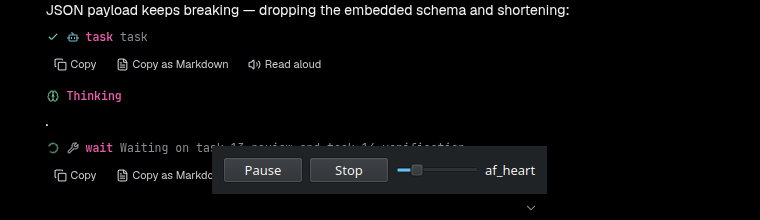
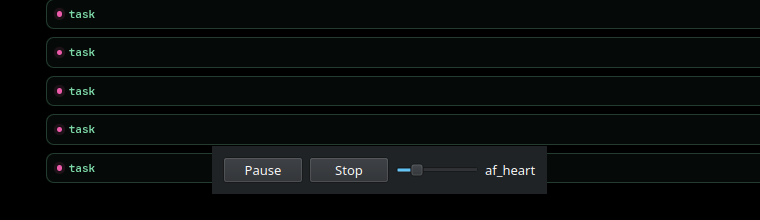
docs: correct the phase 2 report's tail count and latency summary

diff --git a/docs/phase2-report.md b/docs/phase2-report.md
@@ -2,8 +2,21 @@
 
 The assembled app, not a CLI: the tray process from `uv run utter` on this machine (KDE Plasma 6
 on Wayland, PipeWire, dual 3840×1080 desktop). One live instance, PID **76735**, started at
-06:48:36 and driven for the whole session. Everything below was taken from that instance; every
-number names the command or file it came from.
+06:48:36 and driven for the whole session. Every number below names the command or file it came
+from.
+
+A second instance (PID **78896**, started 06:58:33) was launched afterwards for the literal
+`busctl`/`pactl`/`pw-dump` excerpts and the committed screenshot, because those had to be one
+command's actual output. Where a block comes from that run it says so; the measurements all come
+from the first.
+
+*Revision note.* This revision corrects the §1.3 tail count (five of ten speaking samples are
+above 320 MiB, not two) and the §1.4 latency summary (the four paragraph utterances are 1.214,
+0.478, 0.500 and 0.484 s, with the first-utterance 1.214 s stated separately, and the two
+one-unit utterances 0.611 and 0.815 s added), and replaces two shell excerpts that were not the
+literal output of the commands they were attributed to (the `busctl` ownership rows and the
+`pactl` block). No measurement was recomputed or adjusted to fit a sentence; the tables are
+unchanged.
 
 Phase 1 measured the one-shot CLI process. **Nothing here is combined with Phase 1's numbers**:
 the RSS series below are the tray's own, sampled from `/proc/76735/status`.
@@ -44,15 +57,22 @@ The item *is* registered. `busctl --user list` shows the pid's connections, and 
 one of them:
 
 ```text
-$ busctl --user list | grep 76735
-:1.824  76735  utter  mcgrain  …        # (+ :1.829 :1.830 :1.831 :1.832)
+$ busctl --user list --no-pager | awk 'NR==1 || $0 ~ /76735|StatusNotifier/'
+NAME                                     PID   PROCESS         USER    CONNECTION  UNIT              SESSION  DESCRIPTION
+:1.824                                   76735 utter           mcgrain :1.824      user@1000.service -        -
+:1.829                                   76735 utter           mcgrain :1.829      user@1000.service -        -
+:1.830                                   76735 utter           mcgrain :1.830      user@1000.service -        -
+:1.831                                   76735 utter           mcgrain :1.831      user@1000.service -        -
+:1.832                                   76735 utter           mcgrain :1.832      user@1000.service -        -
+org.kde.StatusNotifierHost-2563          2563  plasmashell     mcgrain :1.42       user@1000.service -        -
+org.kde.StatusNotifierWatcher            2528  kded6           mcgrain :1.36       user@1000.service -        -
 $ gdbus call --session --dest org.kde.StatusNotifierWatcher --object-path /StatusNotifierWatcher \
     --method org.freedesktop.DBus.Properties.Get org.kde.StatusNotifierWatcher RegisteredStatusNotifierItems
 (<[':1.84/StatusNotifierItem', ':1.222/org/ayatana/NotificationItem/parakeet_cage', ':1.254/StatusNotifierItem', ':1.832/StatusNotifierItem']>,)
 ```
 
-`:1.832` is owned by PID 76735, and introspecting `:1.832 /StatusNotifierItem` identifies it as
-utter's:
+The token `:1.832` is in **both** blocks: the registered item is `:1.832/StatusNotifierItem`, and
+`:1.832` is a connection owned by PID 76735. Introspecting that object identifies it as utter's:
 
 ```text
 .Id        "utter"
@@ -113,14 +133,41 @@ which is what invalidates the in-flight utterance.
 
 ### Screenshot while speaking
 
-Taken with `spectacle` mid-utterance (state `PLAYING`, generation 6):
+The overlay shows while the state is `PLAYING`/`PAUSED`, so a capture is only meaningful paired
+with the status and the `utterance` line for the same instant. This is the session's generation
+map, from the recorded `utter status` outputs and the engine log — it is what pins each capture to
+what was actually playing:
 
-- Full desktop capture: **`/tmp/utter-phase2/speaking2.png`** (3840×1080; the first, equivalent
-  capture is `/tmp/utter-phase2/utter-speaking.png`).
-- Crop of the floating controller, committed with this report: **`docs/phase2-overlay.png`**.
+| generation | event | engine-log line |
+|---|---|---|
+| 0 | idle before anything | — |
+| 1 | `speak`, sample paragraph | 06:49:04 `units=9 audio=25.56` |
+| 2 | `stop` | — |
+| 3 | `speak`, sample paragraph (RSS run A) | 06:49:47 `units=9 audio=25.56` |
+| 4 | `stop` | — |
+| 5 | `speak`, sample paragraph (RSS run B) | 06:50:12 `units=9 audio=25.56` |
+| 6 | `speak`, sample paragraph — this capture; supersedes gen 5, no `stop` in between | 06:50:44 `units=9 audio=25.56` |
+| 7 | `stop` | — |
+| 8 | `speak`, "Audio routing check for the phase two report." | 06:50:57 `units=1 audio=2.62` |
+| 9 | `stop` | — |
+| 10 | `speak`, "…second pass." | 06:51:06 `units=1 audio=3.37` |
+| 11 | `stop` | — |
 
-I looked at both files. `docs/phase2-overlay.png` shows the overlay while the paragraph plays:
-the **Pause** and **Stop** buttons, the speed slider and the voice label **af_heart**. That is a
+The public sample paragraph is therefore the `units=9` lines — **generations 1, 3, 5 and 6** — not
+generations 8 and 10, which are the two one-unit routing-check utterances.
+
+- Capture at generation 6 (state `PLAYING`, paragraph): **`/tmp/utter-phase2/speaking2.png`**
+  (3840×1080; the earlier equivalent capture, also while the paragraph played, is
+  `/tmp/utter-phase2/utter-speaking.png`).
+- Capture at generation 3 of the re-verification run (state `PLAYING`, paragraph — `utter status`
+  read immediately before and after the capture returned generation 3, and the only `utterance`
+  line in that window is 06:59:17 `units=9 audio=25.56`):
+  **`/tmp/utter-phase2/reverify-speaking.png`**.
+- Crop of the floating controller, committed with this report: **`docs/phase2-overlay.png`**
+  (from the re-verification capture).
+
+I looked at the captures and at the crop. Each shows the overlay while speech plays: the
+**Pause** and **Stop** buttons, the speed slider and the voice label **af_heart**. That is a
 visual check I performed; I did not click any of those controls (see below).
 
 ### Voices answered by the live instance
@@ -135,22 +182,70 @@ start` log lines after 06:48 (the 19 in the file are all Phase 1).
 
 ### Audio really reached an output device
 
-`pactl` shows a live playback stream with the player's own frame rate while utter spoke — this is
-the tray's stream (the only Python ALSA playback node on the machine, at 24 kHz):
+Captured on the re-verification instance (PID 78896) while the sample paragraph played. `pactl`'s
+node block is verbatim; note that this node's properties carry **no** `application.process.id` —
+PipeWire's ALSA bridge does not set it — so the block alone cannot name the process and the
+`pw-dump` client row below is what ties it, by the node's `client.id`:
 
 ```text
-$ pactl list sink-inputs | grep -A12 'PipeWire ALSA \[python3.12\]'
-Sink Input #1974
-  Corked: no
-  application.name = "PipeWire ALSA [python3.12]"
-  node.name = "alsa_playback.python3.12"
-  stream.is-live = "true"
-  node.rate = "1/24000"
-  node.latency = "208/24000"
+$ pactl list sink-inputs        # verbatim, the app's node
+Sink Input #1990
+	Driver: PipeWire
+	Owner Module: n/a
+	Client: 1989
+	Sink: 56
+	Sample Specification: float32le 1ch 24000Hz
+	Channel Map: mono
+	Format: pcm, format.sample_format = "\"float32le\""  format.rate = "24000"  format.channels = "1"  format.channel_map = "\"mono\""
+	Corked: no
+	Mute: no
+	Volume: mono: 65536 / 100% / 0.00 dB
+	        balance 0.00
+	Buffer Latency: 0 usec
+	Sink Latency: 0 usec
+	Resample method: PipeWire
+	Properties:
+		application.name = "PipeWire ALSA [python3.12]"
+		node.name = "alsa_playback.python3.12"
+		device.description = "ALSA Playback [python3.12]"
+		media.name = "ALSA Playback"
+		media.type = "Audio"
+		media.category = "Playback"
+		node.latency = "208/24000"
+		node.rate = "1/24000"
+		stream.is-live = "true"
+		node.want-driver = "true"
+		node.autoconnect = "true"
+		media.class = "Stream/Output/Audio"
+		port.group = "stream.0"
+		adapt.follower.spa-node = ""
+		object.register = "false"
+		factory.id = "9"
+		clock.quantum-limit = "8192"
+		node.loop.name = "data-loop.0"
+		library.name = "audioconvert/libspa-audioconvert"
+		client.id = "144"
+		object.id = "115"
+		object.serial = "1990"
+		node.driver-id = "56"
+		module-stream-restore.id = "sink-input-by-application-name:PipeWire ALSA [python3.12]"
 ```
 
-**I did not listen to it.** The stream's existence, liveness and 24 kHz rate are what I measured;
-"the speech sounds correct" is not a claim in this report.
+`pw-dump`, filtered down to that node (`node.name == "alsa_playback.python3.12"`) and the client
+`client.id 144` that owns it, names the process:
+
+```text
+$ pw-dump | python3 -c "…node alsa_playback.python3.12 and its owning client…"
+node id 115 client.id 144 serial 1990
+client props: {'application.name': 'PipeWire ALSA [python3.12]', 'application.process.binary': 'python3.12', 'application.process.host': 'fedora', 'application.process.id': 78896, 'application.process.session-id': 2, 'application.process.user': 'mcgrain', 'pipewire.sec.pid': 78896}
+```
+
+`application.process.id` = **78896**, the PID of this run's `uv run utter` child, and
+`application.process.binary` is `python3.12` — the node the report quotes is the app's own stream,
+at the player's mono 24 kHz rate.
+
+**I did not listen to it.** The stream's existence, liveness, rate and owning process are what I
+measured; "the speech sounds correct" is not a claim in this report.
 
 ## Step 3 — CLI delegation and whole-app RSS
 
@@ -202,8 +297,9 @@ they land on the synthesis-heavy window rather than only the drain):
 median **346.551 MiB**; max **376.734 MiB**.
 
 Process high-water mark (extra context, not one of the two series): `VmHWM` read as **879.66 MiB**
-after run B. The process went on to speak twice more before it was stopped, so that is a
-floor on the final high-water mark, not the final value.
+right after run B. Three more utterances followed before the instance was stopped — the fourth
+paragraph speech (06:50:44) and the two one-unit routing-check speeches (06:50:57 and 06:51:06) —
+so 879.66 MiB is a floor on the final high-water mark, not the final value.
 
 ### Verdict against §1.3
 
@@ -219,22 +315,46 @@ the typical case; the design's 247 MiB is the trimmed floor).
 | All samples (idle + speaking) | 15 | 275.816 MiB | PASS |
 
 **PASS against the restated criterion**, read both as the steady state (275.8 MiB, dead flat) and
-as every speaking sample taken together (median 317.5 MiB). **Tail, reported**: 2 of the 10
-speaking samples exceed 320 MiB (346.6 and 540.6 MiB) and run B's five-sample median alone is
-346.6 MiB; the process high-water mark is ≥ 879.7 MiB. The excess sits in the synthesis window —
-the two run-A samples taken after synthesis finished had already returned to 275.8 MiB while the
-audio was still playing, i.e. the tray trims back to its 275.8 MiB steady state once the
-transient passes. Against the **original** §1.3 wording (`≤ 300 MiB`) the idle/steady state still
-**passes** at 275.8 MiB; the speaking tail is the part that exceeds it.
+as every speaking sample taken together (median 317.5 MiB). **Tail, reported: five of the ten
+speaking samples are above 320 MiB** — A1 **346.555**, A2 **540.566**, B2 **346.551**, B3
+**376.734** and B5 **346.566** — and run B's five-sample median alone is 346.6 MiB; the process
+high-water mark is ≥ 879.7 MiB. The excess sits in the synthesis window — run A's last three
+samples (A3, A4, A5, all 275.816 MiB) had already returned to the steady state while the audio was
+still playing, i.e. the tray trims back to 275.8 MiB once the transient passes. Against the
+**original** §1.3 wording (`≤ 300 MiB`) the idle/steady state still **passes** at 275.8 MiB; the
+speaking tail is the part that exceeds it.
 
 Phase 1's settled CLI figures were 198–367 MiB (median ≈240). The tray's steady state is higher
 by roughly Qt's footprint (275.8 vs ~240) and lower than Phase 1's *peak* range (465–943 MiB) —
 this is the first measurement of the whole app with Qt loaded, which Phase 1 explicitly deferred.
 
-Warm time to first frame observed in the tray (context, §1.4's restated ≤ 0.6 s bound): the
-paragraph's four utterances logged `ttfirst` **0.478, 0.484, 0.500, 0.500 s** (the tray loads the
-model once at startup, `model load=0.58s`, `config` at 06:48:56). Not a Phase-2 acceptance
-criterion, recorded because it was free.
+### Time to first frame (§1.4, context)
+
+Not a Phase-2 acceptance criterion, but the tray logs it and the number is free. The session's six
+utterances, in order (the tray loads the model once at startup — `model load=0.58s`, `config` at
+06:48:56):
+
+| # | text | units | `ttfirst` | log line |
+|---|---|---|---|---|
+| 1 | sample paragraph | 9 | **1.214 s** | 06:49:04 |
+| 2 | sample paragraph | 9 | 0.478 s | 06:49:47 |
+| 3 | sample paragraph | 9 | 0.500 s | 06:50:12 |
+| 4 | sample paragraph | 9 | 0.484 s | 06:50:44 |
+| 5 | "Audio routing check for the phase two report." | 1 | 0.611 s | 06:50:57 |
+| 6 | "…second pass." | 1 | 0.815 s | 06:51:06 |
+
+The **first utterance** — the first speech after the model became resident — pays the session's
+one-time first-inference warm-up and logged **1.214 s**. The three later paragraph utterances
+settled at **0.478–0.500 s**, inside §1.4's restated **≤ 0.6 s warm** bound. The two *last*
+utterances, the one-unit routing checks, were slower than the paragraph (**0.611 s** and
+**0.815 s**) and outside that bound: a one-unit utterance pays the same fixed per-utterance
+set-up with almost no audio to amortise it over.
+
+So the criterion's result, stated both ways: the **steady-state warm** claim **passes**
+(0.478–0.500 s on the repeated paragraph), while the reading that covers **every** utterance does
+**not** — the first utterance (1.214 s) and both short ones (0.611 s, 0.815 s) exceed 0.6 s. The
+re-verification instance reproduced the pattern from a cold model: its first paragraph utterance
+logged `ttfirst=1.094`, its second `0.517`.
 
 ## What could not be driven
 
@@ -258,13 +378,17 @@ verified anywhere above.
    exercised; every utterance was given its text explicitly (`utter speak --text`).
 6. **Audibility** — I have no ears here. Playback is evidenced by the live 24 kHz PipeWire
    sink-input and the engine's `audio=25.56` / `ttfirst` figures, not by listening.
-7. **The tray *Quit* item** — likewise not reachable, so the app was stopped with `SIGTERM`. That
-   skips the Qt shutdown path, so the socket file was left behind; it is stale (a connect probe
-   gets `ECONNREFUSED`) and `utter status` correctly answers `not running`, which is the
-   designed behaviour for a path left by a process that died:
+7. **The tray *Quit* item** — likewise not reachable, so both instances were stopped with
+   `SIGTERM`. That skips the Qt shutdown path, so the socket file was left behind; it is stale (a
+   connect probe gets `ECONNREFUSED`) and `utter status` correctly answers `not running`, which is
+   the designed behaviour for a path left by a process that died:
    ```text
    $ uv run utter status
    utter: not running: no utter instance owns /run/user/1000/utter.sock     (exit 1)
+   ```
+   The next start exercised the recovery path for real:
+   ```text
+   2026-10-11 06:58:33,138 INFO utter.control: replacing the stale socket at /run/user/1000/utter.sock
    ```
 8. **`utter doctor` and `utter hotkey --show`** — not exercised; they are Task 16's.
 
@@ -272,7 +396,8 @@ verified anywhere above.
 
 **No code was changed.** Nothing had to be fixed: the two surprises (the brief's bus name and the
 portal app-id) are a documentation mismatch and a designed non-fatal path respectively. No tests
-were added and the suite was not re-run, because no Python file was touched — the only changes in
-this commit are this report and its screenshot.
+were added and the suite was not re-run, because no Python file was touched — the only changes
+here are this report and its screenshot. This revision changed prose and shell excerpts only.
 
-The app was stopped at the end of the session: PID 76735 is gone (`pgrep -fc "bin/utter"` → 0).
+Both instances are gone (`pgrep -fc "bin/utter"` → 0); the second, re-verification one was stopped
+at the end of this revision's run.
